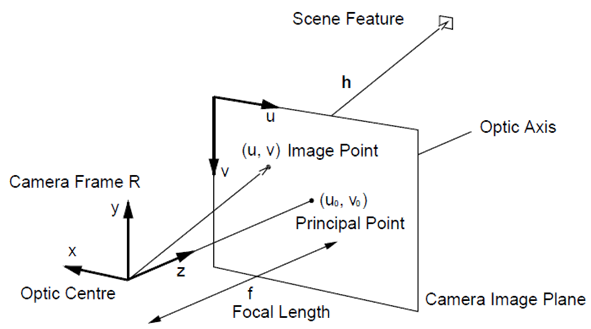
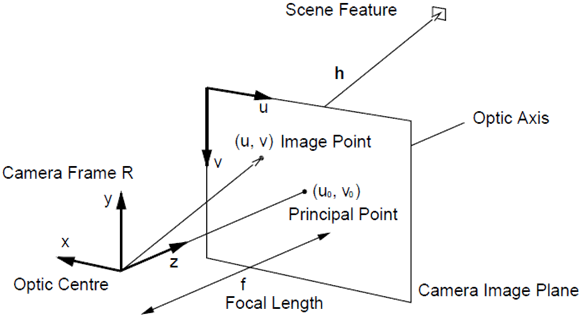
Revision and overall improvements.

diff --git a/tex/sections/implementation.tex b/tex/sections/implementation.tex
@@ -1,6 +1,6 @@
 \section{Spatial augmented reality}\label{sec:sar}
 
-Projection mapping is a \gls{sar} \cite{Bimber2005} approach in which video projectors are used to overlay virtual geometry on top of real objects or surfaces. This allows to create an immersive environment that together with 3D perception systems can be used to develop interactive interfaces that show contextual information for helping or teaching human operators performing complex tasks faster. The next sections describe the mathematical modeling of video projectors within \gls{opengl} and the associated calibration that is necessary for performing proper 3D rendering of the virtual world in order to achieve high accuracy projection.
+Projection mapping is a \gls{sar} \cite{Bimber2005} approach in which video projectors are used to overlay virtual geometry on top of real objects or surfaces. This allows to create an immersive environment that together with 3D perception systems can be used to develop interactive interfaces that show contextual information for helping or teaching human operators performing complex tasks faster. The next sections describe the mathematical modeling of video projectors within the \gls{opengl} and the associated calibration that is necessary for performing proper 3D rendering of the virtual world in order to achieve high accuracy projection.
 
 
 \subsection{Projector modeling}
@@ -11,18 +11,18 @@ For video projection mapping purposes, reflective projectors are better suited t
 
 The mathematical modeling of a \gls{dlp} projector can be seen as an inverse pinhole camera (diagram shown in \cref{fig:camera-intrinsics-2}) due to the grid disposition of the mirrors in the \gls{dmd} and the very low distortion that modern \gls{dlp} projectors have. As such, rendering of 3D virtual environments can be performed efficiently using an extended version of the \gls{opengl} projection matrix\footnote{\url{http://ksimek.github.io/2013/06/03/calibrated\_cameras\_in\_opengl}} (presented in \cref{eq:projection-matrix}).
 
-The perspective projection of vertex data is one of the pivotal stages in any rendering engine and is responsible from converting 3D geometry from the camera space into the clipping space (as depicted in \cref{fig:opengl-mvp,fig:gl-projection-matrix}). This matrix is usually created using the $glOrtho$ function (matrix shown in \cref{eq:glOrtho}) for orthographic projection or the $glFrustum$ (matrix presented in \cref{eq:glFrustum}) for perspective projection. Looking at both matrices, we can see that the $glFrustum$ can be decomposed to include the $glFrustum$ matrix and a $Q$ matrix (shown in \cref{eq:Q}) that corresponds to the intrinsic parameters of a pinhole camera with the same focal length for the X and Y axis, the principal point at the center of the image and no axis skew. The main difference between the $Q$ matrix and the traditional $K$ matrix \cite{Hartley2003} (shown in \cref{eq:k}) is the bottom row of $Q$, in which the $w$ component of the homogeneous matrix was set to the -Z coordinate. This is a matrix optimization associated with the perspective z-divide that is required to convert 4D homogeneous coordinates to 3D Cartesian coordinates. It has a negative sign because by default the \gls{opengl} camera is setup to look along the -Z axis (as can be seen in \cref{fig:gl-projection-matrix}), and to simplify and optimize the calculations using the similar triangles properties (displayed in \cref{fig:similar-triangles}), the Z coordinate needs to be negated for having a positive value. Looking at \cref{eq:k2}, it can be seen that $K$ can be easily adapted to take this implementation detail into consideration, which allows to extend the $Q$ matrix with the intrinsics parameters estimated by the OpenCV $calib3d$ module. Namely, $Q$ can be extended (as shown in \cref{eq:q2}) to support pinhole cameras with different focal lengths for the X and Y axis ($Fx$ and $Fy$), have an arbitrary axis skew ($S$) and non-centered principal point ($Cx$ and $Cy$). Moreover, the $glOrtho$ matrix can be simplified for this particular use case (as seen in \cref{eq:glOrtho2}), in order to optimize the creation of the extended \gls{opengl} perspective projection matrix that takes into consideration the full camera intrinsics shown in \cref{eq:k}. This extension to the default \gls{opengl} projection matrix is of critical importance for being able to model video projectors as \gls{opengl} cameras, because unlike normal cameras that have the principal point close the image center, video projectors have the principal point at the bottom of the image. As such, \gls{sar} systems must take great care when generating the image that will be projected, otherwise the overlap error between the physical and virtual objects will be too much for making the system usable. The correction of lens distortion typically uses 3 coefficients for removing radial distortions and 2 coefficients for accounting for the tangential distortions. Even thought being relatively small in \gls{dlp} projectors, they can be removed in a post-processing stage after 3D rendering or using a shader in the new \gls{opengl} \gls{api}.
+The perspective projection of vertex data is one of the pivotal stages in any rendering engine. In \gls{opengl}, it is responsible for converting 3D geometry from the camera space into the clipping space (as depicted in \cref{fig:opengl-mvp,fig:gl-projection-matrix}). This matrix is usually created using the $glOrtho$ function (matrix shown in \cref{eq:glOrtho}) for orthographic projection or the $glFrustum$ (matrix presented in \cref{eq:glFrustum}) for perspective projection. Looking at both matrices, we can see that the $glFrustum$ can be decomposed to include the $glOrtho$ matrix and a $Q$ matrix (shown in \cref{eq:Q}) that corresponds to the intrinsic parameters of a pinhole camera with the same focal length for the X and Y axis, the principal point at the center of the image and no axis skew. The main difference between the $Q$ matrix and the traditional $K$ matrix \cite{Hartley2003} (shown in \cref{eq:k}) is the bottom row of $Q$, in which the $w$ component of the homogeneous matrix was set to the -Z coordinate. This is a matrix optimization associated with the perspective z-divide that is required to convert 4D homogeneous coordinates to 3D Cartesian coordinates. It has a negative sign because by default the \gls{opengl} camera is setup to look along the -Z axis (as can be seen in \cref{fig:gl-projection-matrix}), and to simplify and optimize the calculations using the similar triangles properties (displayed in \cref{fig:similar-triangles}), the Z coordinate needs to be negated for having a positive value. Looking at \cref{eq:k2}, it can be seen that $K$ can be easily adapted to take this implementation detail into consideration, which allows to extend the $Q$ matrix with the intrinsics parameters estimated by the OpenCV $calib3d$ module. Namely, $Q$ can be extended (as shown in \cref{eq:q2}) to support pinhole cameras with different focal lengths for the X and Y axis ($Fx$ and $Fy$), have an arbitrary axis skew ($S$) and non-centered principal point ($Cx$ and $Cy$). Moreover, since in this particular use case $Left=0$ and $Bottom=0$, the $glOrtho$ matrix can be simplified (as seen in \cref{eq:glOrtho2}), in order to optimize the creation of the extended \gls{opengl} perspective projection matrix, that takes into consideration the full camera intrinsics shown in \cref{eq:k}. This extension to the default \gls{opengl} projection matrix is of critical importance for being able to model video projectors as \gls{opengl} cameras because unlike normal cameras that have the principal point close the image center, video projectors have the principal point at the bottom of the image. As such, \gls{sar} systems must take great care when generating the image that will be projected, otherwise the overlap error between the physical and virtual objects will be too much for making the system usable. The correction of lens distortion typically uses 3 coefficients for removing radial distortions and 2 coefficients for accounting for the tangential distortions. Even thought being relatively small in \gls{dlp} projectors, they can be removed in a post-processing stage after 3D rendering or using a shader in the new \gls{opengl} \gls{api}.
 
 \begin{figure}[!ht]
 	\centering
-	\includegraphics[height=.13\textheight]{dlp-projector-diagram-dmd}
+	\includegraphics[height=.18\textheight]{dlp-projector-diagram-dmd}
 	\caption[Single chip \glsentrytext{dlp} diagram]{Single chip \glsentrytext{dlp} diagram\protect\footnotemark}
 	\label{fig:dlp-projector-diagram-dmd}
 \end{figure}
 
 \begin{figure}[!ht]
 	\centering
-	\includegraphics[height=.185\textheight]{camera-intrinsics-2}
+	\includegraphics[height=.24\textheight]{camera-intrinsics-2}
 	\caption[Pinhole camera model used in OpenCV calib3d module]{Pinhole camera model used in OpenCV calib3d module\protect\footnotemark}
 	\label{fig:camera-intrinsics-2}
 \end{figure}
@@ -44,7 +44,7 @@ The perspective projection of vertex data is one of the pivotal stages in any re
 \begin{figure}[!ht]
 	\centering
 	\includegraphics[width=.7\textwidth]{similar-triangles}
-	\caption[Similar triangles properties diagram]{Similar triangles properties diagram\protect\footnotemark}
+	\caption[Diagram showing the similar triangles properties]{Diagram showing the similar triangles properties\protect\footnotemark}
 	\label{fig:similar-triangles}
 \end{figure}
 
@@ -142,7 +142,7 @@ The perspective projection of vertex data is one of the pivotal stages in any re
 	\begin{equation}\label{eq:projection-matrix}
 		ExtendedOpenGLPerspectiveProjectionMatrix = glOrtho' \times Q'
 	\end{equation}
-}
+}%
 
 
 \subsection{Projector calibration}
@@ -177,7 +177,7 @@ After having the intrinsic parameters of the camera and projector along with the
 For achieving accurate projection mapping, the Gazebo simulator\footnote{\url{http://gazebosim.org}} camera implementation was improved to allow the setting of a custom projection matrix in order to perform 3D rendering with a camera model that takes into account the projector intrinsic parameters. Moreover, it was added the possibility to dynamically change image, video and text during runtime for allowing the display of the relevant information for each assembly step.
 For efficient 3D scene rendering, the Gazebo simulator relies on the cross platform open source Ogre3D graphics engine\footnote{\url{http://www.ogre3d.org}}, that in turn uses the \gls{opengl} \gls{gpu} \gls{api} to take advantage of the massively parallel graphics cards currently available to generate raster images for the \gls{dlp} projector (example of a rendered scene for the last assembly step in \cref{fig:scene-rendering}).
 
-For user interface, the Gazebo simulator has a Qt\footnote{\url{https://www.qt.io}} \gls{gui} that allows visual inspection of the scene while also giving the option to add new objects or move and rotate existing models. Moreover, for lightweight rendering, it can also start in server mode without a \gls{gui}.
+For user interface the Gazebo simulator has a Qt\footnote{\url{https://www.qt.io}} \gls{gui} that allows visual inspection of the scene while also giving the option to add new objects or move and rotate existing models. Moreover, for lightweight rendering, it can also start in server mode without a \gls{gui}.
 
 \begin{figure}[ht]
 	\centering
@@ -192,7 +192,7 @@ For user interface, the Gazebo simulator has a Qt\footnote{\url{https://www.qt.i
 
 The immersive \gls{hmi} system developed (shown in \cref{fig:scene-rendering,fig:human-machine-interface}) projects into the workspace detailed textual information of the current assembly task along with a video showing the operation being performed by an expert operator. Given the high variability of assembly / maintenance operations, the system was designed to decompose the assembly process into a set of small and concise operations. This allows to keep the operator focused on the current task and reduces the required projection area. Moreover, the operator can pause and move the video forwards and backwards, allowing him to inspect a given complex operation with more time.
 
-The user interaction with the projected \gls{hmi} is done by analyzing the 3D point cloud sensor data that falls within a set of \glspl{roi}, that are shown in \cref{fig:interaction-rois} as 4 green cubes for navigating within the assembly steps (first, previous, next and last), 1 dark blue box for pausing / playing the video and 1 yellow box for the video seek functionality (examples of user interacting the the \gls{hmi} shown in \cref{fig:interaction-pause,fig:interaction-next,fig:interaction-seek}).
+The user interaction with the projected \gls{hmi} is done by analyzing the 3D point cloud sensor data that falls within a set of \glspl{roi}, that are shown in \cref{fig:interaction-rois} as 4 green cubes for navigating within the assembly steps (first, previous, next and last), 1 dark blue box for pausing / playing the video and 1 yellow box for the video seek functionality (examples of a user interacting with the \gls{hmi} shown in \cref{fig:interaction-pause,fig:interaction-next,fig:interaction-seek}).
 
 For ensuring robust detection of the user intentions, each \gls{roi} has a state machine that triggers its associated action only when a minimum number of points falls within the specified \gls{roi} boundaries (avoids sensor noise problems) and the user holds his finger within it for at least 0.25 seconds. Moreover, to avoid unintentionally triggering the same action several times, the user needs to remove and insert the finger into the \gls{roi} to request the action again.
 
@@ -226,14 +226,14 @@ When a \gls{roi} state machine activates its action, the 3D sensor data centroid
 
 \section{Object 3D reconstruction}\label{sec:object-reconstruction}
 
-For performing proper 3D rendering and also be able to estimate the 6 \gls{dof} pose of an object within the workspace, a 3D \gls{cad} or mesh model of the final product is required. Given the lack of public available \gls{cad} models for the Mitsubishi M000T20873 starter motor (shown in \cref{fig:starter-motor}), it was necessary to perform object 3D reconstruction. The 3D mesh model shown in \cref{fig:object-reconstruction} was generated using the David Laser 3D structured light system\footnote{\url{http://www.david-3d.com}}, and was built by surface matching algorithms using sensor data retrieved from 38 scans in which the starter motor was moved and rotated several times in order to capture enough sensor data to be able to reconstruct the entire surface. This particular object created some challenges for the structured light scanner because it contains polished metallic sections and also black coated surfaces. As such, it was necessary to capture the same object sections several times with different projector brightness and camera exposure times (the dark regions required the maximum projector brightness and very high exposure times while the polished sections required dimmer projector brightness and very short exposure times in order for the surface to be fully reconstructed). Moreover, for ensuring that the matching algorithms worked as expected, all captured point clouds needed to be manually cleaned using the David Laser scanning software before performing the alignment and reconstruction of the mesh model.
+For performing proper 3D rendering and also be able to estimate the 6 \gls{dof} pose of an object within the workspace, a 3D \gls{cad} or mesh model of the final product is required. Given the lack of public available \gls{cad} models for the Mitsubishi M000T20873 starter motor (shown in \cref{fig:starter-motor}), it was necessary to perform object 3D reconstruction. The 3D mesh model shown in \cref{fig:object-reconstruction} was generated using the David Laser 3D structured light system\footnote{\url{http://www.david-3d.com}}, and was built by surface matching algorithms using sensor data retrieved from 38 scans in which the starter motor was moved and rotated several times in order to capture enough sensor data to be able to reconstruct the entire surface. This particular object created some challenges for the structured light scanner because it contains polished metallic sections and also black coated surfaces. As such, it was necessary to capture the same object sections several times with different projector brightness and camera exposure times (the dark regions required the maximum projector brightness and very high exposure times while the polished sections required dimmer projector brightness and very short exposure times in order for the surface to be fully reconstructed). Moreover, for ensuring that the point cloud matching algorithms worked as expected, all captured point clouds needed to be manually cleaned using the David Laser scanning software before performing the alignment and reconstruction of the mesh model.
 
-The last step of the assembly process includes a visual inspection stage performed by the operator in which it compares the final assembled product with a projected surface outline computed from the reconstructed mesh and overlaid on top of the physical object after its 6 \gls{dof} pose is estimated. The outline was computed using the curvature estimator available in MeshLab\footnote{\url{http://www.meshlab.net}}. Namely, the "Compute curvature principal directions" filter was used with the principal component analysis method and the mean curvature color mapping algorithm (result show in \cref{fig:object-reconstruction}). For improving the visibility of the outline, the color palette was remapped to show the high curvature regions (associated with surfaces boundaries) using the green color instead of red and the remaining intermediate curvatures were changed to very dark blue, for giving high contrast between the outline and the other surfaces. This was achieved by exporting the mesh to the .dae format (require by Gazebo for displaying colored models) with the color information separated to a .png texture. This way, it was possible to use Gimp\footnote{\url{https://www.gimp.org}} for remapping and enhance the mesh surface color outlines (as seen in \cref{fig:scene-rendering,fig:projection-mapping-3}).
+The last step of the assembly process includes a visual inspection stage performed by the operator in which it compares the final assembled product with a projected surface outline computed from the reconstructed mesh and overlaid on top of the physical object after its 6 \gls{dof} pose is estimated. The outline was computed using the curvature estimator available in MeshLab\footnote{\url{http://www.meshlab.net}}. Namely, the "Compute curvature principal directions" filter was used with the principal component analysis method and the mean curvature color mapping algorithm (result show in \cref{fig:object-reconstruction}). For improving the visibility of the outline, the color palette was remapped to show the high curvature regions (associated with surfaces boundaries) using the green color and the remaining intermediate curvatures were changed to very dark blue, for giving high contrast between the outline and the other surfaces. This was achieved by exporting the mesh to the .dae format (require by Gazebo for displaying colored models) with the color information separated to a .png texture. This way, it was possible to use Gimp\footnote{\url{https://www.gimp.org}} for remapping and enhance the colors of the mesh outlines (as seen in \cref{fig:scene-rendering,fig:projection-mapping-2}).
 
 \begin{figure}[!ht]
 	\centering
-	\includegraphics[height=.152\textheight]{mitsubishi-m000t20873-front}
-	\includegraphics[height=.152\textheight]{mitsubishi-m000t20873-back}
+	\includegraphics[height=.172\textheight]{mitsubishi-m000t20873-front}
+	\includegraphics[height=.172\textheight]{mitsubishi-m000t20873-back}
 	\caption{Mitsubishi M000T20873 starter motor}
 	\label{fig:starter-motor}
 \end{figure}
@@ -252,13 +252,17 @@ The last step of the assembly process includes a visual inspection stage perform
 
 Robust and accurate estimation of the 6 \gls{dof} pose of objects is a requirement when virtual information must be overlaid on top of objects that may change their location over time. To achieve this goal, the 3D point cloud registration system (drl) described in \cite{Costa2016} was fine tuned for our table top use case.
 
-We started by configuring the reference point cloud preprocessing pipeline to randomly select 3000 vertices of the starter engine reconstructed mesh (small green circles shown in \cref{fig:initial-pose-estimation}) and compute the \gls{sift} \cite{Lowe2004} keypoints (large yellow circles) and their associated \gls{fpfh} \cite{Rusu2009} feature descriptors.
+We started by configuring the reference point cloud preprocessing pipeline to randomly select 3000 vertices of the starter motor reconstructed mesh (small green circles shown in \cref{fig:initial-pose-estimation}) and compute the \gls{sift} \cite{Lowe2004} keypoints (large yellow circles) and their associated \gls{fpfh} \cite{Rusu2009} descriptors.
 
-Later on, we configured the runtime filtering stage of the drl system to segment the target object (starter motor) by extracting the points that were within a \gls{roi} specified in a calibrated frame on top of the table. The \gls{roi} defined the plausible space in which the object could be placed and also allowed to remove the points associated with the table. Moreover, for ensuring that the pose estimation would take less than 3 seconds, we also configured a random sample filter to downsample the point cloud within the \gls{roi} to 2500 points. Given that in this use case only a single object appears within the \gls{roi}, the clustering algorithms were not added to the drl runtime pipe. But they will be very useful in the future when we extend the proposed \gls{sar} system to provide contextual information and visual feedback for all the parts visible by the sensor (the clustering stage will then provide input for a object recognition module, which will determined which \gls{cad} is the best fit for each group of 3D points).
+Later on, we configured the runtime filtering stage of the drl system to segment the target object (starter motor) by extracting the points that were within a \gls{roi} specified in a calibrated frame on top of the table. The \gls{roi} defined the plausible space in which the object could be placed and also allowed to remove the points associated with the table. Moreover, for ensuring that the initial pose estimation would take less than 3 seconds, we also configured a random sample filter to downsample the point cloud within the \gls{roi} to 2500 points.
 
-After finishing the setup of the preprocessing stage, we configured the initial alignment algorithms, namely, we fine tuned the \gls{sift} keypoint detector along with the \gls{fpfh} keypoint descriptor and the \gls{ransac} feature matcher. Later on, we fine tuned the \gls{icp} algorithm for refining the point cloud registration in order to achieve a 6 \gls{dof} pose estimation with hight accuracy (less than 2 mm or alignment error, as can be seen by the good overlap between the physical starter motor and its virtual outline displayed in \cref{fig:projection-mapping-3}).
+Given that in this use case only a single object appears within the \gls{roi}, the clustering algorithms were not added to the drl runtime pipe. But they will be very useful in the future when we extend the proposed \gls{sar} system to provide contextual information and visual feedback for all the parts visible by the sensor (the clustering stage will then provide input for a object recognition module, which will determined which \gls{cad} is the best fit for each group of 3D points).
 
-The drl modules discussed earlier are enough for estimating the 6 \gls{dof} pose of objects, but for improving the efficiency of the drl we also configured the tracking and recovery matching pipelines. These two pipelines allow the definition of a set of cloud matchers that are fine tuned to align the sensor data by successively updating the 6 \gls{dof} pose of the object as new sensor data arrives. This allows to run the robust, but computationally expensive feature matching algorithms once, and then rely on dense point cloud matching algorithms to quickly and accurately update the object pose at the frame rate of the 3D sensor (up to 30 Hz, depending on the CPU used). The tracking pipeline was configured to rely on the \gls{icp} algorithm with the point-to-point metric with a search radius 0.07 m for establishing correspondences during the iterative matching process and with the maximum number of iterations set to 300. On the other hand, the recovery pipeline was fine tuned to use the \gls{icp} algorithm with the point-to-plane metric with the search radius and number of iterations increased to 0.2 m and 400 respectively. This approach of starting with robust feature matching algorithms and then rely on tracking algorithms with the sporadic usage of tracking recovery methods was critical for being able to track the object with a reasonable frame rate, which will be useful in the future when we extend the proposed \gls{sar} to monitor the operator actions for ensuring he is following the instructions and did not forget or misplaced assembly parts.
+After finishing the setup of the preprocessing stage, we configured the initial alignment algorithms, namely, we fine tuned the \gls{sift} keypoint detector along with the \gls{fpfh} keypoint descriptor and the \gls{ransac} feature matcher. Later on, we fine tuned the \gls{icp} algorithm for refining the point cloud registration in order to achieve a 6 \gls{dof} pose estimation with hight accuracy (less than 2 mm or alignment error, as can be seen by the good overlap between the physical starter motor and its virtual outline displayed in \cref{fig:projection-mapping-2}).
+
+The drl modules discussed earlier are enough for estimating the 6 \gls{dof} pose of objects, but for improving the efficiency of the drl we also configured the tracking and recovery matching pipelines. These two pipelines allow the definition of a set of cloud matchers that are fine tuned to align the sensor data by successively updating the 6 \gls{dof} pose of the object as new sensor data arrives. This allows to run the robust, but computationally expensive feature matching algorithms once, and then rely on dense point cloud matching algorithms to quickly and accurately update the object pose at the frame rate of the 3D sensor (up to 30 Hz, depending on the CPU used). The tracking pipeline was configured to rely on the \gls{icp} algorithm with the point-to-point metric with a search radius 0.07 m for establishing correspondences during the iterative matching process and with the maximum number of iterations set to 300. On the other hand, the recovery pipeline was fine tuned to use the \gls{icp} algorithm with the point-to-plane metric with the search radius and number of iterations increased to 0.2 m and 400 respectively.
+
+The approach of starting with robust feature matching algorithms and then rely on tracking algorithms with the sporadic usage of recovery methods was critical for being able to track the object with a reasonable frame rate, which will be useful in the future when we extend the proposed \gls{sar} to monitor the operator actions for ensuring he is following the instructions and did not forget or misplaced assembly parts.
 
 In \cref{fig:initial-pose-estimation} is shown an example of the estimation of the 6 \gls{dof} pose of the starter motor. The left image displays the overlay of the reference point cloud on top of the 3D sensor data in the previously estimated pose (before the operator occluded the part with its hand and move it to a new place) while the right image shows the updated pose after alignment, that correctly detected that the operator moved the part to the right and rotated it 90º clockwise.
 

diff --git a/tex/sections/conclusions.tex b/tex/sections/conclusions.tex
@@ -1,5 +1,5 @@
 \section{Conclusions}\label{sec:conclusions}
 
-This paper presented the fundamental technologies required to implement an accurate \gls{sar} system within the domain of small parts assembly. Namely, it proposes an efficient and accurate approach to model video projectors using the \gls{opengl} projection matrix, discusses how to tackle the problem of projecting virtual 3D geometry on top of movable objects using a 6 \gls{dof} pose estimation system and also describes how to calibrate the intrinsic and extrinsic parameters of the sensing and projection hardware to ensure that the system as a hole has an overlap error between the physical and virtual objects below 2 mm. These technologies were validated using our immersive teaching system, that is capable of guiding the operator during the assembly process using a projected \gls{hmi} containing text and video content while also providing a visual inspection phase in which the expected product outline is overlaid on top of the assembled components. This prof-of-concept use case served to validate the approaches suggested and can be used as a starting point for other applications, namely cooperative workstations in which a \gls{sar} system can be used to coordinate the tasks between robots and operators by showing directly on the environment what are the expected work areas and operations that are associated to each robot and operator.
+This paper presented the fundamental technologies required to implement an accurate \gls{sar} system within the domain of small parts assembly. Namely, it proposed an efficient and accurate approach to model video projectors using the \gls{opengl} projection matrix, discussed how to tackle the problem of projecting virtual 3D geometry on top of movable objects using a 6 \gls{dof} pose estimation system and also described how to calibrate the intrinsic and extrinsic parameters of the sensing and projection hardware to ensure that the system as a hole had an overlap error between the physical and virtual objects below 2 mm. These technologies were validated using our immersive teaching system, that is capable of guiding the operator during the assembly process using a projected \gls{hmi} containing text and video content while also providing a visual inspection phase in which the expected product outline is overlaid on top of the assembled components. This prof-of-concept use case served to validate the approaches suggested and can be used as a starting point for other applications, namely cooperative workstations in which a \gls{sar} system can be used to coordinate the tasks between robots and operators by showing directly on the environment what are the expected work areas and operations that are associated to each robot and operator.
 
-The presented immersive teaching system can be improved further by adding an assembly analysis module for monitoring what the operator is doing in order to provide contextual help (such as detecting that the current component was mounted correctly and projecting the next part that the operator needs to assemble) and also alert for possible mistakes done by the operator during assembly. This would allow continuous analysis and quality control of the assembly process, reducing the time required for the detection and correction of assembly problems.
+The presented immersive teaching system can be improved further by adding an assembly analysis module for monitoring what the operator is doing in order to provide contextual help (such as detecting that the current component was mounted correctly and projecting the next part that the operator needs to assemble) and also alert for possible mistakes done by the operator during assembly. This would allow continuous analysis and quality control of the assembly process, reducing the time required for the detection and correction of assembly problems. On the other hand, the evaluation of the \gls{sar} system with a large group of operators would provide useful feedback for its improvement and would allow to determine how much effective it can be when compared with traditional methods.

diff --git a/tex/sections/introduction.tex b/tex/sections/introduction.tex
@@ -4,4 +4,4 @@ Teaching humans new manufacturing skills or advanced assembly / maintenance oper
 
 With these goals in mind, an augmented reality teaching system was developed that relies on projection mapping techniques for augmenting the operator workspace with contextual assembly instructions detailing the operations and tools that are required to assemble a given product. Each step contains textual descriptions of the operations that the operator needs to perform and is accompanied by a video in which an expert tutor is performing the described task. The \gls{hmi} interface monitors the projected \gls{gui} and analyzes the 3D sensor data to detect when the operator uses the instruction navigation buttons (to move to the first, previous, next and last instruction step) or wants to interact with the video (play, pause or seek). Moreover, for helping the operator perform the assembly validation and quality assessment faster, the last assembly step includes a visual inspection phase in which the 6 \gls{dof} pose of the assembled object is computed using a geometric feature matching approach followed by dense point cloud registration refinement in order to be able to project with high accuracy the 3D model of the expected geometry into the final assembled product.
 
-In the following section it will be given a brief overview of the augmented reality systems that were developed over the years for teaching operators how to perform assembly, maintenance and repair operations. Then in \cref{sec:sar} it will be introduced the mathematical modeling of the \gls{dlp} projector used along with the calibration required for accurate 3D rendering and projection. Later on, \cref{sec:human-machine-interaction} will describe the \gls{hmi} developed for allowing the operator to navigate between the assembly operations. Given the lack of \gls{cad} models of the starter motor used, \cref{sec:object-reconstruction} will describe how the 3D model was retrieved using a structured light system. Then in \cref{sec:pose-estimation} it will be presented the processing pipeline of the developed 6 \gls{dof} object pose estimation system. Finally, \cref{sec:training} will present the results of a training session while \cref{sec:conclusions} will summarize the conclusions and present possible future work.
+In the following section it will be given a brief overview of the augmented reality systems that were developed over the years for teaching operators how to perform assembly, maintenance and repair operations. Then in \cref{sec:sar} it will be introduced the mathematical modeling of the \gls{dlp} projectors that is proposed along with the calibration required for accurate 3D rendering and projection. Later on, \cref{sec:human-machine-interaction} will describe the \gls{hmi} developed for allowing the operator to navigate between the assembly operations. Given the lack of \gls{cad} models of the starter motor used, \cref{sec:object-reconstruction} will describe how the 3D model was retrieved using a structured light system. Then in \cref{sec:pose-estimation} it will be presented the processing pipeline of the 6 \gls{dof} object pose estimation system. Finally, \cref{sec:training} will present the results of a training session while \cref{sec:conclusions} will summarize the conclusions and present possible future work.

diff --git a/tex/abstract.tex b/tex/abstract.tex
@@ -1,5 +1,5 @@
 \begin{abstract}
 
-Teaching complex assembly and maintenance skills to human operators usually requires extensive reading and the help of tutors. In order to reduce the training period and avoid the need of human supervision, an immersive teaching system was developed for guiding inexperienced operators. The system provides textual and video instructions for each step and allows the operator to navigate between the teaching steps and control the video playback using a bare hands natural interaction interface that is projected into the workspace. Moreover, to help the operator during the final validation and inspection phase, the system projects the 3D outline of the expected final product. The proposed teaching system was tested with the assembly of a starter motor and proved to be more effective and intuitive than reading the traditional user manuals. This prof-of-concept use case served to validate the fundamental technologies and approaches that were proposed to achieve an intuitive and accurate augmented reality teaching application. The most technically challenging problem was how to properly model and calibrate the projection hardware along with the estimation of the object's poses for achieving precise overlap between the 3D rendered content and the physical world. On the other hand, the conceptualization of the information flow and how it can be conveyed on-demand to the operator was also of critical importance for ensuring a smooth and intuitive experience for the operator.
+Teaching complex assembly and maintenance skills to human operators usually requires extensive reading and the help of tutors. In order to reduce the training period and avoid the need of human supervision, an immersive teaching system using spatial augmented reality was developed for guiding inexperienced operators. The system provides textual and video instructions for each step and allows the operator to navigate between the teaching steps and control the video playback using a bare hands natural interaction interface that is projected into the workspace. Moreover, for helping the operator during the final validation and inspection phase, the system projects the expected 3D outline of the final product. The proposed teaching system was tested with the assembly of a starter motor and proved to be more effective and intuitive than reading the traditional user manuals. This prof-of-concept use case served to validate the fundamental technologies and approaches that were proposed to achieve an intuitive and accurate augmented reality teaching application. Among them were the proper modeling and calibration of the sensing and projection hardware along with the 6 DoF pose estimation of objects for achieving precise overlap between the 3D rendered content and the physical world. On the other hand, the conceptualization of the information flow and how it can be conveyed on-demand to the operator was also of critical importance for ensuring a smooth and intuitive experience for the operator.
 
 \end{abstract}

diff --git a/tex/sections/training.tex b/tex/sections/training.tex
@@ -1,6 +1,6 @@
-\section{Training operators to assemble a starter motor}\label{sec:training}
+\section{Training operators to assemble a starter motor using an immersive HMI}\label{sec:training}
 
-Small parts assembly of flexible components is a very challenging task to automate given the advanced sensing and gripping technologies that it requires. As such, currently it is more cost effective to have cooperative assembly lines in which humans perform the tasks that require robust perception, adaptive grasping and high level cognition while the robot does the remaining tasks.
+Small parts assembly of flexible components is a very challenging task to automate given the advanced sensing and gripping technologies that it requires. As such, currently it is more cost effective to have cooperative assembly lines in which humans perform the tasks that require robust perception, adaptive grasping and high level cognition while the robots do the remaining tasks.
 
 In the next sections we will present the application of our immersive training system for the assembly of a starter motor. This is a representative use case of small parts assembly given its diversity of operations and components. Moreover, since it has flexible parts (rubbers, wires, springs), it would be a prime candidate for a collaborative assembly line, in which besides teaching, our immersive \gls{hmi} system could also be used to coordinate the assembly process between the operator and the robotic system.
 
@@ -12,8 +12,9 @@ Our immersive teaching system was developed as a \gls{ros}\footnote{\url{http://
 
 \begin{figure}[ht]
 	\centering
-	\includegraphics[height=.22\textheight]{hardware-front}
-	\includegraphics[height=.22\textheight]{hardware-side}
+	\includegraphics[height=.24\textheight]{hardware-front}
+	\hspace{2em}
+	\includegraphics[height=.24\textheight]{hardware-side}
 	\caption{Hardware setup}
 	\label{fig:hardware}
 \end{figure}

diff --git a/tex/preamble.tex b/tex/preamble.tex
@@ -18,7 +18,7 @@
 %\usepackage{multicol}
 %\usepackage{multirow}
 %\usepackage{showframe}
-\usepackage[draft=false,hyperfootnotes=true]{hyperref} %[draft,hidelinks]
+\usepackage[draft=false,hyperfootnotes=true,hidelinks=true]{hyperref} %[draft,hidelinks]
 \usepackage[noadjust]{cite}
 \usepackage{url}
 \usepackage{footnote}
